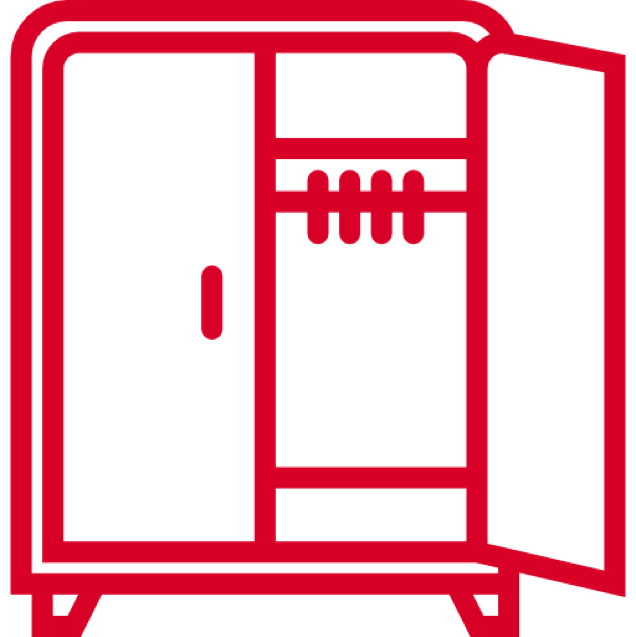
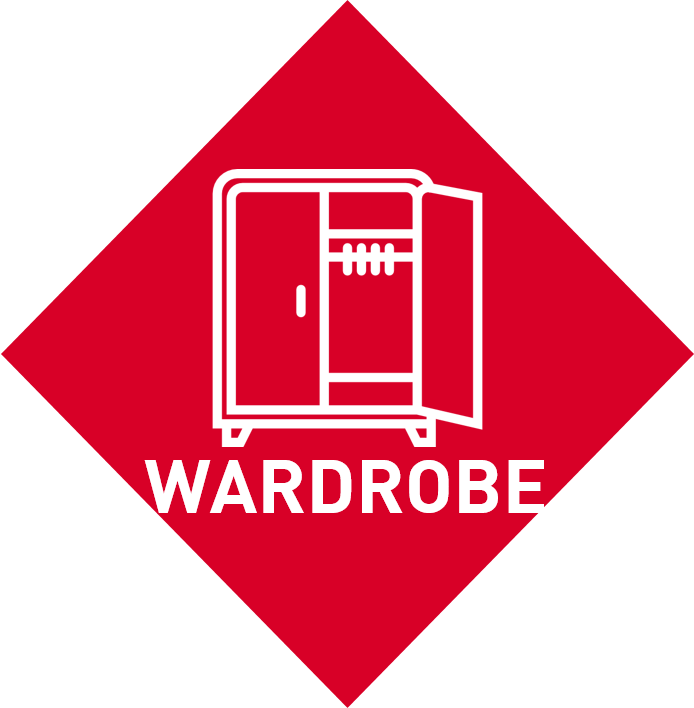
Fingers Crossed

diff --git a/lib/public/js/calendar.js b/lib/public/js/calendar.js
@@ -8,28 +8,28 @@
       };
       var eventImgs = {
         "Fridge" : {
-          "overlay" : "Fridge2.png",
-          "screen" : "NF_Fridge.png"
+          "overlay" : "Fridge.png",
+          "screen" : "/White/Fridge.png"
         },
         "Phone" : {
-          "overlay" : "Phone.png",
-          "screen" : "Phone_Icon.png"
+          "overlay" : "Telephone.png",
+          "screen" : "/White/Phone.png"
         },
         "Music" : {
           "overlay" : "Music.png",
-          "screen" : "Music_Icon.png"
+          "screen" : "/White/Music.png"
         },
         "Bathroom" : {
-          "overlay" : "Bath.png",
-          "screen" : "Bath_Outline.png"
+          "overlay" : "Bathroom.png",
+          "screen" : "/White/Bathroom.png"
         },
         "Wardrobe" : {
-          "overlay" : "Bed.png",
-          "screen" : "Bed.png"
+          "overlay" : "Wardrobe.png",
+          "screen" : "/White/Wardrobe.png"
         },
         "Bed" : {
-          "overlay" : "Wardrobe_Icon.png",
-          "screen" : "Wardrobe.png"
+          "overlay" : "Sleep.png",
+          "screen" : "/White/Sleep.png"
         }
       };
       /**
